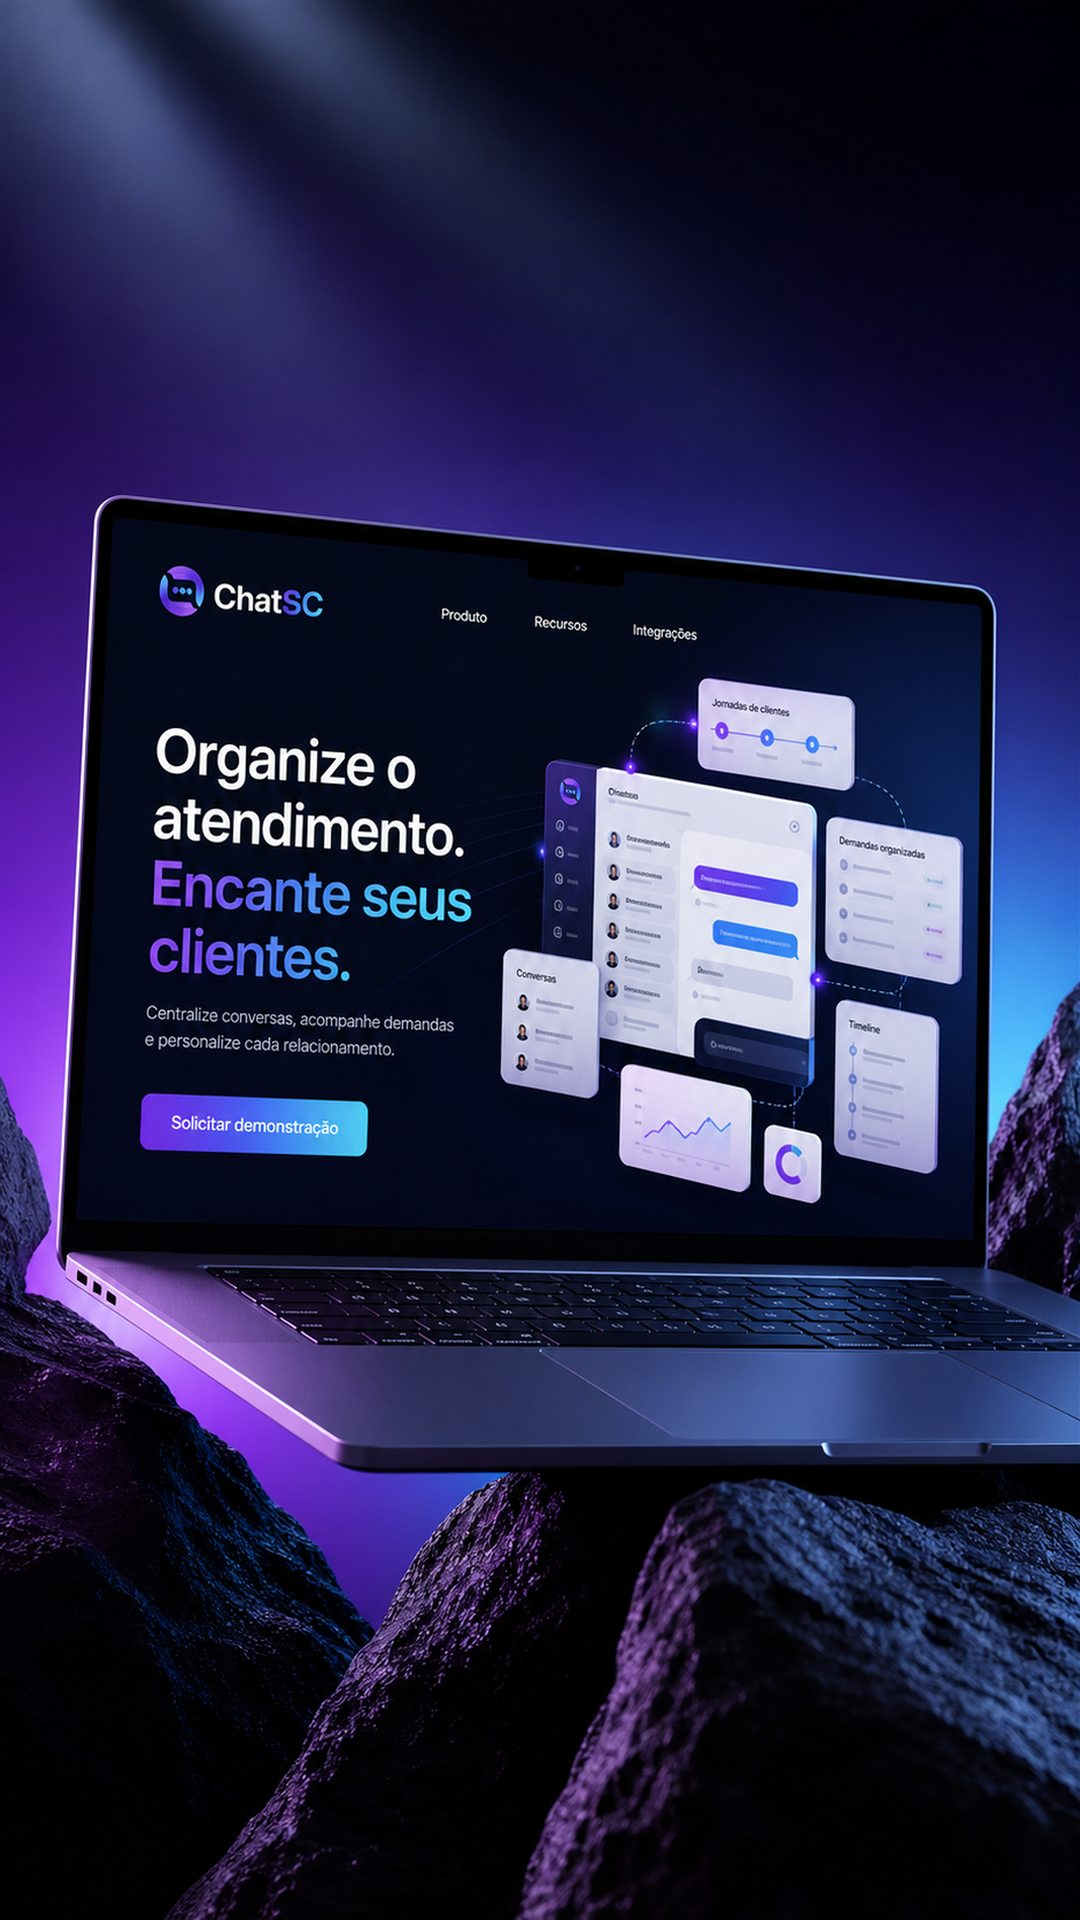
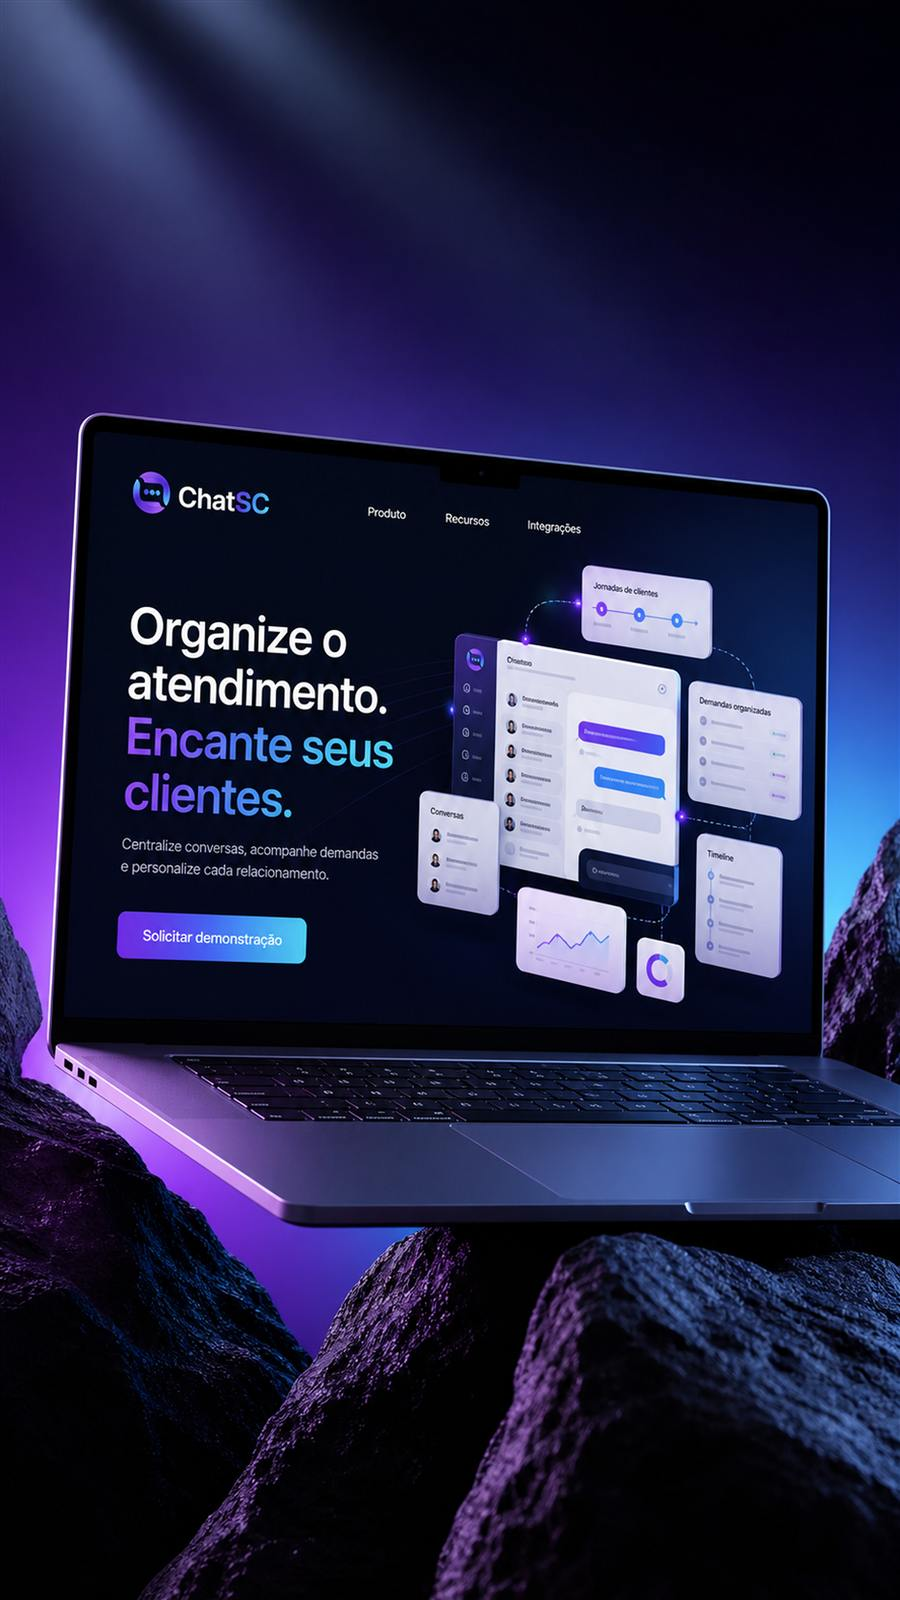
Melhora métricas de desempenho e Lighthouse

diff --git a/index.html b/index.html
@@ -6,7 +6,8 @@
   <meta name="viewport" content="width=device-width, initial-scale=1.0" />
   <link rel="preconnect" href="https://fonts.googleapis.com" />
   <link rel="preconnect" href="https://fonts.gstatic.com" crossorigin />
-  <link rel="stylesheet" href="https://fonts.googleapis.com/css2?family=Inter:wght@400;500;600;700;800;900&family=Outfit:wght@700;800;900&display=swap" />
+  <link rel="preload" as="style" href="https://fonts.googleapis.com/css2?family=Inter:wght@400;500;600;700;800;900&family=Outfit:wght@700;800;900&display=swap" onload="this.onload=null;this.rel='stylesheet'" />
+  <noscript><link rel="stylesheet" href="https://fonts.googleapis.com/css2?family=Inter:wght@400;500;600;700;800;900&family=Outfit:wght@700;800;900&display=swap" /></noscript>
 
   <title>ChatSC — Plataforma de Atendimento para Escritórios Contábeis</title>
 
@@ -37,7 +38,7 @@
 
   <link rel="icon" type="image/png" href="images/favicon_web.png" />
   <link rel="apple-touch-icon" href="images/favicon_web.png" />
-  <link rel="stylesheet" href="style.css?v=20260907-18" />
+  <link rel="stylesheet" href="style.css?v=20260907-19" />
 </head>
 
 <body>
@@ -184,8 +185,8 @@
             <!-- Main mockup image -->
             <img
               src="images/hero_notebook.jpg"
-              width="1080"
-              height="1920"
+              width="900"
+              height="1600"
               alt="Interface do ChatSC mostrando atendimentos, jornadas e demandas organizadas"
               class="hero-mockup"
               id="hero-mockup-img"
@@ -338,7 +339,7 @@
 
         <div class="problem-solution reveal reveal-right">
           <div class="problem-solution-img-wrapper">
-            <img src="images/screen_dashboard.png" alt="Visão do Dashboard ChatSC" class="problem-solution-img" loading="lazy" decoding="async" />
+            <img src="images/screen_dashboard.png" width="1919" height="908" alt="Visão do Dashboard ChatSC" class="problem-solution-img" loading="lazy" decoding="async" />
           </div>
           <p class="problem-solution-label">A resposta do ChatSC</p>
           <h3>
@@ -379,7 +380,7 @@
 
       <!-- Visual Workflow Banner -->
       <div class="how-visual-banner reveal reveal-delay-1">
-        <img src="images/screen_atendimentos.png" alt="Fluxo visual do atendimento no ChatSC" class="workflow-img" loading="lazy" decoding="async" />
+        <img src="images/screen_atendimentos.png" width="603" height="902" alt="Fluxo visual do atendimento no ChatSC" class="workflow-img" loading="lazy" decoding="async" />
         <div class="workflow-caption">
           <span class="workflow-dot"></span> Fluxo automatizado de ponta a ponta
         </div>
@@ -495,7 +496,7 @@
                 <span class="browser-dot"></span><span class="browser-dot"></span><span class="browser-dot"></span>
                 <span class="browser-url">chatsc.com.br/dashboard</span>
               </div>
-              <img src="images/screen_dashboard.png" alt="Dashboard do ChatSC" class="screen-panel-img" loading="lazy" />
+              <img src="images/screen_dashboard.png" width="1919" height="908" alt="Dashboard do ChatSC" class="screen-panel-img" loading="lazy" decoding="async" />
             </div>
             <div class="screen-panel-info">
               <div class="screen-panel-icon"><svg width="22" height="22" fill="none" viewBox="0 0 24 24"><path stroke="currentColor" stroke-linecap="round" stroke-linejoin="round" stroke-width="2" d="M3 3h8v9H3zM13 3h8v5h-8zM13 12h8v9h-8zM3 16h8v5H3z"/></svg></div>
@@ -517,7 +518,7 @@
                 <span class="browser-dot"></span><span class="browser-dot"></span><span class="browser-dot"></span>
                 <span class="browser-url">chatsc.com.br/atendimento</span>
               </div>
-              <img src="images/screen_atendimentos.png" alt="Central de atendimentos do ChatSC" class="screen-panel-img" loading="lazy" />
+              <img src="images/screen_atendimentos.png" width="603" height="902" alt="Central de atendimentos do ChatSC" class="screen-panel-img" loading="lazy" decoding="async" />
             </div>
             <div class="screen-panel-info">
               <div class="screen-panel-icon"><svg width="22" height="22" fill="none" viewBox="0 0 24 24"><path stroke="currentColor" stroke-linecap="round" stroke-linejoin="round" stroke-width="2" d="M8 12h.01M12 12h.01M16 12h.01M21 12c0 4.418-4.03 8-9 8a9.863 9.863 0 01-4.255-.949L3 20l1.395-3.72C3.512 15.042 3 13.574 3 12c0-4.418 4.03-8 9-8s9 3.582 9 8z"/></svg></div>
@@ -539,7 +540,7 @@
                 <span class="browser-dot"></span><span class="browser-dot"></span><span class="browser-dot"></span>
                 <span class="browser-url">chatsc.com.br/agendamentos</span>
               </div>
-              <img src="images/screen_agendamentos.png" alt="Agendamentos do ChatSC" class="screen-panel-img" loading="lazy" />
+              <img src="images/screen_agendamentos.png" width="1913" height="906" alt="Agendamentos do ChatSC" class="screen-panel-img" loading="lazy" decoding="async" />
             </div>
             <div class="screen-panel-info">
               <div class="screen-panel-icon"><svg width="22" height="22" fill="none" viewBox="0 0 24 24"><path stroke="currentColor" stroke-linecap="round" stroke-linejoin="round" stroke-width="2" d="M8 7V3m8 4V3m-9 8h10M5 21h14a2 2 0 002-2V7a2 2 0 00-2-2H5a2 2 0 00-2 2v12a2 2 0 002 2z"/></svg></div>
@@ -561,7 +562,7 @@
                 <span class="browser-dot"></span><span class="browser-dot"></span><span class="browser-dot"></span>
                 <span class="browser-url">chatsc.com.br/clientes</span>
               </div>
-              <img src="images/screen_clientes.png" alt="Carteira de clientes do ChatSC" class="screen-panel-img" loading="lazy" />
+              <img src="images/screen_clientes.png" width="633" height="903" alt="Carteira de clientes do ChatSC" class="screen-panel-img" loading="lazy" decoding="async" />
             </div>
             <div class="screen-panel-info">
               <div class="screen-panel-icon"><svg width="22" height="22" fill="none" viewBox="0 0 24 24"><path stroke="currentColor" stroke-linecap="round" stroke-linejoin="round" stroke-width="2" d="M17 20h5v-2a3 3 0 00-5.356-1.857M17 20H7m10 0v-2c0-.656-.126-1.283-.356-1.857M7 20H2v-2a3 3 0 015.356-1.857M7 20v-2c0-.656.126-1.283.356-1.857m0 0a5.002 5.002 0 019.288 0M15 7a3 3 0 11-6 0 3 3 0 016 0z"/></svg></div>
@@ -583,7 +584,7 @@
                 <span class="browser-dot"></span><span class="browser-dot"></span><span class="browser-dot"></span>
                 <span class="browser-url">chatsc.com.br/jornadas</span>
               </div>
-              <img src="images/screen_jornadas.png" alt="Jornadas do ChatSC" class="screen-panel-img" loading="lazy" />
+              <img src="images/screen_jornadas.png" width="519" height="678" alt="Jornadas do ChatSC" class="screen-panel-img" loading="lazy" decoding="async" />
             </div>
             <div class="screen-panel-info">
               <div class="screen-panel-icon"><svg width="22" height="22" fill="none" viewBox="0 0 24 24"><path stroke="currentColor" stroke-linecap="round" stroke-linejoin="round" stroke-width="2" d="M9 5H7a2 2 0 00-2 2v12a2 2 0 002 2h10a2 2 0 002-2V7a2 2 0 00-2-2h-2M9 5a2 2 0 002 2h2a2 2 0 002-2M9 5a2 2 0 012-2h2a2 2 0 012 2m-3 7h3m-3 4h3m-6-4h.01M9 16h.01"/></svg></div>
@@ -703,7 +704,7 @@
               <div class="api-connector" aria-hidden="true">+</div>
               <div class="api-logo-item">
                 <div class="api-logo-box coex" aria-label="ChatSC">
-                  <img src="Marca/Identidade Visual/Digital/PNG/Symbol v2.png" alt="" style="width:36px;height:36px;object-fit:contain;" />
+                  <img src="images/favicon_web.png" width="128" height="130" alt="" loading="lazy" decoding="async" style="width:36px;height:36px;object-fit:contain;" />
                 </div>
                 <span>ChatSC</span>
               </div>
@@ -1332,6 +1333,6 @@
     </svg>
   </a>
 
-  <script src="script.js?v=20260907-3"></script>
+  <script src="script.js?v=20260907-4"></script>
 </body>
 </html>

diff --git a/script.js b/script.js
@@ -185,10 +185,15 @@
   const heroSection = document.querySelector('.hero');
 
   if (heroMockup && heroSection && window.matchMedia('(min-width: 1024px)').matches) {
+    let heroRect = heroSection.getBoundingClientRect();
+
+    window.addEventListener('resize', function () {
+      heroRect = heroSection.getBoundingClientRect();
+    }, { passive: true });
+
     heroSection.addEventListener('mousemove', function (e) {
-      const rect = heroSection.getBoundingClientRect();
-      const x = (e.clientX - rect.left) / rect.width - 0.5;
-      const y = (e.clientY - rect.top) / rect.height - 0.5;
+      const x = (e.clientX - heroRect.left) / heroRect.width - 0.5;
+      const y = (e.clientY - heroRect.top) / heroRect.height - 0.5;
 
       heroMockup.style.transform = `
         translateY(${-16 * Math.sin(Date.now() / 3000)}px)
@@ -764,10 +769,16 @@
      ---------------------------------------------------------- */
   if (!prefersReduced && window.matchMedia('(min-width: 1024px)').matches) {
     document.querySelectorAll('.btn-primary').forEach(function (btn) {
+      let buttonRect;
+
+      btn.addEventListener('mouseenter', function () {
+        buttonRect = btn.getBoundingClientRect();
+      });
+
       btn.addEventListener('mousemove', function (e) {
-        const rect = btn.getBoundingClientRect();
-        const x = e.clientX - rect.left - rect.width / 2;
-        const y = e.clientY - rect.top - rect.height / 2;
+        if (!buttonRect) return;
+        const x = e.clientX - buttonRect.left - buttonRect.width / 2;
+        const y = e.clientY - buttonRect.top - buttonRect.height / 2;
         btn.style.transform = `translate(${x * 0.12}px, ${y * 0.20}px)`;
       });
       btn.addEventListener('mouseleave', function () {
@@ -808,12 +819,18 @@
      ---------------------------------------------------------- */
   if (!prefersReduced && window.matchMedia('(min-width: 768px)').matches) {
     document.querySelectorAll('.pricing-card').forEach(function (card) {
+      let cardRect;
+
+      card.addEventListener('mouseenter', function () {
+        cardRect = card.getBoundingClientRect();
+      });
+
       card.addEventListener('mousemove', function (e) {
-        const rect = card.getBoundingClientRect();
-        const cx = rect.left + rect.width / 2;
-        const cy = rect.top + rect.height / 2;
-        const dx = (e.clientX - cx) / (rect.width / 2);
-        const dy = (e.clientY - cy) / (rect.height / 2);
+        if (!cardRect) return;
+        const cx = cardRect.left + cardRect.width / 2;
+        const cy = cardRect.top + cardRect.height / 2;
+        const dx = (e.clientX - cx) / (cardRect.width / 2);
+        const dy = (e.clientY - cy) / (cardRect.height / 2);
         // Skip tilt for Pro card (already scaled)
         const isProCard = card.classList.contains('pricing-card-pro');
         const scale = isProCard ? 'scale(1.04)' : 'scale(1.01)';

diff --git a/style.css b/style.css
@@ -3374,7 +3374,8 @@ body {
 
 /* Nav CTA pulse */
 #nav-cta-btn {
-  animation: nav-btn-pulse 3s ease-in-out infinite;
+  animation: none;
+  box-shadow: var(--glow-btn);
 }
 
 @keyframes nav-btn-pulse {
